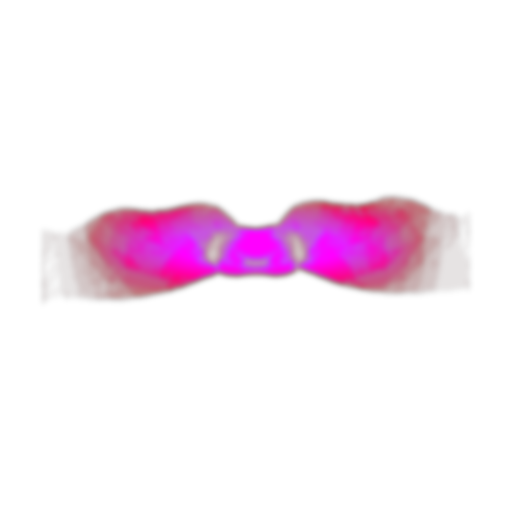
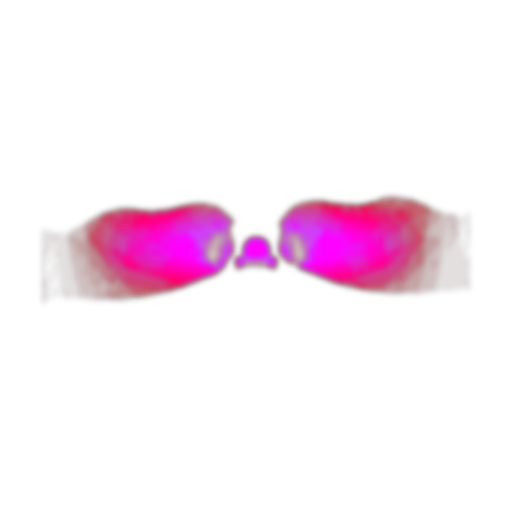
fix: separate sun blush nose mask

Changed region(s): [[0.4062, 0.4375, 0.5938, 0.5625], [0.2188, 0.4062, 0.375, 0.5312], [0.625, 0.4062, 0.7812, 0.5312]]

diff --git a/scripts/e7_reference_atlas/verify_cheek_blush_contract.py b/scripts/e7_reference_atlas/verify_cheek_blush_contract.py
@@ -4,6 +4,7 @@
 from __future__ import annotations
 
 import json
+from collections import deque
 from pathlib import Path
 
 import numpy as np
@@ -13,6 +14,7 @@ from PIL import Image
 ROOT = Path(__file__).resolve().parents[2]
[1 lines of base64/hex data omitted]
 SUMMARY_PATH = ROOT / "evidence/e7-reference-atlas/cheek-blush-mask-textures-v1/summary.json"
+SOURCE_SCREEN_ROOT = ROOT / "evidence/e7-reference-atlas/cheek-blush-mask-textures-v1/screen"
 EXPECTED_SUMMARY_PATH = (
     ROOT
     / "evidence/e7-reference-atlas/cheek-blush-mask-textures-v1/expected_render_20260628_natural_v5/summary.json"
@@ -77,6 +79,87 @@ def verify_masks() -> dict[str, dict[str, float | int]]:
             "reservedGMax": int(g.max()),
         }
     return stats
+
+
+def connected_components(mask: np.ndarray) -> list[dict[str, int | float]]:
+    height, width = mask.shape
+    seen = np.zeros_like(mask, dtype=bool)
+    components: list[dict[str, int | float]] = []
+    for y, x in zip(*np.nonzero(mask)):
+        if seen[y, x]:
+            continue
+
+        queue: deque[tuple[int, int]] = deque([(int(y), int(x))])
+        seen[y, x] = True
+        xs: list[int] = []
+        ys: list[int] = []
+        while queue:
+            cy, cx = queue.popleft()
+            xs.append(cx)
+            ys.append(cy)
+            for dy, dx in ((1, 0), (-1, 0), (0, 1), (0, -1)):
+                ny = cy + dy
+                nx = cx + dx
+                if 0 <= ny < height and 0 <= nx < width and mask[ny, nx] and not seen[ny, nx]:
+                    seen[ny, nx] = True
+                    queue.append((ny, nx))
+
+        components.append(
+            {
+                "pixels": len(xs),
+                "left": min(xs),
+                "top": min(ys),
+                "right": max(xs),
+                "bottom": max(ys),
+                "width": max(xs) - min(xs) + 1,
+                "height": max(ys) - min(ys) + 1,
+                "centerX": float(sum(xs) / len(xs)),
+                "centerY": float(sum(ys) / len(ys)),
+            }
+        )
+    return components
+
+
+def verify_sunkissed1_source_shape() -> dict[str, int | float]:
+    path = SOURCE_SCREEN_ROOT / "cheek-sunkissed-mask1-v1-source-clean.png"
+    require(path.exists(), "Missing Sun 1 clean source mask")
+    source = np.asarray(Image.open(path).convert("L"), dtype=np.uint8) > 127
+    height, width = source.shape
+    components = connected_components(source)
+    require(len(components) == 3, "Sun 1 source must keep left cheek, nose, and right cheek separate")
+
+    nose_candidates = [
+        component
+        for component in components
+        if width * 0.44 <= float(component["centerX"]) <= width * 0.56
+        and int(component["pixels"]) < 20000
+    ]
+    require(len(nose_candidates) == 1, "Sun 1 source must contain one centered nose blush component")
+    nose = nose_candidates[0]
+    cheeks = [component for component in components if component is not nose]
+    cheeks.sort(key=lambda component: float(component["centerX"]))
+    left_cheek, right_cheek = cheeks
+
+    require(float(left_cheek["centerX"]) < width * 0.5, "Sun 1 left cheek must stay on the left")
+    require(float(right_cheek["centerX"]) > width * 0.5, "Sun 1 right cheek must stay on the right")
+    require(int(left_cheek["width"]) > 260, "Sun 1 left cheek must stay horizontally filled")
+    require(int(right_cheek["width"]) > 260, "Sun 1 right cheek must stay horizontally filled")
+    require(int(left_cheek["height"]) > 220, "Sun 1 left cheek must stay rounded/full")
+    require(int(right_cheek["height"]) > 220, "Sun 1 right cheek must stay rounded/full")
+    require(45 <= int(nose["width"]) <= 110, "Sun 1 nose blush must stay visible but compact")
+    require(65 <= int(nose["height"]) <= 140, "Sun 1 nose blush must stay rounded/full")
+    require(int(left_cheek["right"]) + 8 < int(nose["left"]), "Sun 1 must keep left nose-side skin gap")
+    require(int(nose["right"]) + 8 < int(right_cheek["left"]), "Sun 1 must keep right nose-side skin gap")
+
+    return {
+        "componentCount": len(components),
+        "leftCheekWidth": int(left_cheek["width"]),
+        "rightCheekWidth": int(right_cheek["width"]),
+        "noseWidth": int(nose["width"]),
+        "noseHeight": int(nose["height"]),
+        "leftGap": int(nose["left"]) - int(left_cheek["right"]) - 1,
+        "rightGap": int(right_cheek["left"]) - int(nose["right"]) - 1,
+    }
 
 
 def main() -> None:
@@ -152,7 +235,17 @@ def main() -> None:
         ),
     )
 
-    print(json.dumps({"status": "ok", "masks": verify_masks()}, indent=2, ensure_ascii=False))
+    print(
+        json.dumps(
+            {
+                "status": "ok",
+                "masks": verify_masks(),
+                "sun1Source": verify_sunkissed1_source_shape(),
+            },
+            indent=2,
+            ensure_ascii=False,
+        )
+    )
 
 
 if __name__ == "__main__":

diff --git a/scripts/e7_reference_atlas/generate_cheek_blush_mask_textures.py b/scripts/e7_reference_atlas/generate_cheek_blush_mask_textures.py
@@ -165,6 +165,30 @@ def paint_ellipse(
     )
 
 
+def erase_ellipse(
+    target: np.ndarray,
+    *,
+    cx: float,
+    cy: float,
+    radius_x: float,
+    radius_y: float,
+) -> None:
+    height, width = target.shape
+    left = max(int(np.floor(cx - radius_x)), 0)
+    right = min(int(np.ceil(cx + radius_x)), width - 1)
+    top = max(int(np.floor(cy - radius_y)), 0)
+    bottom = min(int(np.ceil(cy + radius_y)), height - 1)
+    if right < left or bottom < top:
+        return
+
+    grid_y, grid_x = np.mgrid[top : bottom + 1, left : right + 1]
+    ellipse = (
+        ((grid_x - cx) / max(radius_x, 1.0)) ** 2
+        + ((grid_y - cy) / max(radius_y, 1.0)) ** 2
+    ) <= 1.0
+    target[top : bottom + 1, left : right + 1][ellipse] = 0
+
+
 def expand_component_ellipse(
     expanded: np.ndarray,
     component: np.ndarray,
@@ -211,6 +235,7 @@ def expand_screen_mask_for_runtime(clean: np.ndarray, mask_id: str) -> np.ndarra
 
     if mask_id == "cheek-sunkissed-mask1-v1":
         rebuilt = np.zeros_like(expanded)
+        nose_cutout: tuple[float, float, float, float] | None = None
         components = iter_components(alpha, min_pixels=24)
         for component in components:
             ys, xs = np.nonzero(component)
@@ -224,13 +249,7 @@ def expand_screen_mask_for_runtime(clean: np.ndarray, mask_id: str) -> np.ndarra
             centered = abs(cx - width * 0.5) < width * 0.12
             small = box_w < width * 0.16 and box_h < height * 0.06
             if centered and small:
-                paint_ellipse(
-                    rebuilt,
-                    cx=cx,
-                    cy=cy + box_h * 0.02,
-                    radius_x=box_w * 1.16,
-                    radius_y=box_h * 1.08,
-                )
+                nose_cutout = (cx, cy + box_h * 0.02, box_w, box_h)
                 continue
 
             direction = -1.0 if cx < width * 0.5 else 1.0
@@ -240,6 +259,24 @@ def expand_screen_mask_for_runtime(clean: np.ndarray, mask_id: str) -> np.ndarra
                 cy=cy + box_h * 0.03,
                 radius_x=max(box_w * 0.98, box_h * 0.62),
                 radius_y=box_h * 0.54,
+            )
+
+        if nose_cutout is not None:
+            cx, cy, box_w, box_h = nose_cutout
+            for direction in (-1.0, 1.0):
+                erase_ellipse(
+                    rebuilt,
+                    cx=cx + direction * box_w * 0.58,
+                    cy=cy,
+                    radius_x=box_w * 0.18,
+                    radius_y=box_h * 1.08,
+                )
+            paint_ellipse(
+                rebuilt,
+                cx=cx,
+                cy=cy,
+                radius_x=box_w * 0.43,
+                radius_y=box_h * 0.74,
             )
 
         return rebuilt

diff --git a/TECH_VALIDATION_RESULT.md b/TECH_VALIDATION_RESULT.md
@@ -112,6 +112,8 @@ Latest E7 cheek blush natural edge/color no-build correction: 2026-06-28 KST
 
 Latest E7 cheek blush natural v5 UnityFramework build/sync: 2026-06-28 KST
 
+Latest E7 cheek blush Sun 1 nose-side gap UnityFramework build/sync: 2026-06-28 KST
+
 ## Current Session Snapshot
 
 This snapshot is the default entry point for future Codex sessions. Read this section first, then lazy-load only the milestone-specific plan or research document needed for the current task.
@@ -264,6 +266,7 @@ Key evidence:
 - 2026-06-28 E7 cheek blush milk-pink/three-stage correction: user-provided expected color was sampled as `#F0CBD5` and added to the RN cheek palette as `milk_pink`. The cheek texture generator now expands all five blush masks for a wider soft outer falloff, treats `blush_under_eye` specially so it starts directly below the lower eye area and fades into the high cheek instead of floating awkwardly lower, and encodes a per-shape three-stage density map (`outer` / `mid` / `core`) for smoother gradients. The cheek shader now resolves those logical layers as `cheekOuterLayer`, `cheekMidLayer`, and `cheekCoreLayer`, keeping neutral skin fade at the outer edge while letting the core carry stronger pigment. No-build checks passed: cheek contract verifier, `git diff --check`, RN Jest (`16`), TypeScript, and RN lint. After build approval, UnityFramework regeneration/sync succeeded with `TIMESTAMP=e7-cheek-blush-three-stage-20260628`; RN real-device install still failed before runtime because Xcode has no provisioning profile/account for `com.yeoseojin.makeupar.validation202268054` / team `9G4K6N63MK`. A compare-only unsigned device-targeted RN/Xcode build succeeded and produced a `199M` app embedding an arm64 `119M` UnityFramework with `24M` Unity `Data`; required Unity metadata and ARKit subsystem files are present. Evidence logs: `evidence/logs/m3-repro-unity-export-e7-cheek-blush-three-stage-20260628.log`, `evidence/logs/m3-repro-xcodebuild-unityframework-e7-cheek-blush-three-stage-20260628.log`, `evidence/logs/m3-repro-artifact-verification-e7-cheek-blush-three-stage-20260628.log`, `evidence/logs/e7-cheek-blush-three-stage-rn-ios-device-20260628.log`, `evidence/logs/e7-cheek-blush-three-stage-rn-ios-device-auto-sign-20260628.log`, `evidence/logs/e7-cheek-blush-three-stage-rn-ios-unsigned-build-20260628.log`, and `evidence/logs/e7-cheek-blush-three-stage-rn-ios-unsigned-artifact-verification-20260628.log`. Cheek remains Yellow until runtime screenshots/logs, motion, performance, and five-shape visual acceptance evidence are collected on the iPhone.
 - 2026-06-28 E7 cheek blush natural edge/color no-build correction: user screenshots showed visible cheek perimeter seams, weak color differentiation, nearly invisible `milk_pink`, and awkward side-face clipping on `blush_sunkissed1` / `blush_sunkissed2`. The follow-up correction keeps the wide user-drawn/source region as a safety outer alpha, but moves visible pigment inward by regenerating the B-channel density with a stricter inner gate, component-edge fade, and UV side fade so face-edge mesh clipping is less likely to leave a colored vertical boundary. `blush_sunkissed1` now rebuilds the screen source from filled round cheek blobs plus nose blush instead of preserving the half-moon source cutout; the latest tweak extends only the cheek blobs' inner horizontal span toward the cheek center while keeping vertical growth restrained. Unity cheek shader blending now treats outer as a near no-color safety wash, mid as the veil, and core as pigment; `cheekLightColorBoost` / `cheekVisiblePrimary` make bright pink colors validation-visible without changing saturated red/rose behavior as much. `E3RegionMaskOverlay` raises cheek material alpha scaling so light colors are not swallowed by multiply blending. The expected-render sheet is regenerated at `evidence/e7-reference-atlas/cheek-blush-mask-textures-v1/expected_render_20260628_natural_v5/cheek_blush_expected_render_sheet.png`, and the cheek contract verifier passes with density now smaller than alpha for all five masks. This is no-build/static correction only; UnityFramework rebuild, RN install, and iPhone runtime visual acceptance have not been rerun.
 - 2026-06-28 E7 cheek blush natural v5 UnityFramework build/sync: after the latest Sun 1 horizontal-fill tweak, buildless checks passed with cheek contract verifier and `git diff --check`, then the approved UnityFramework-only build was run. The first attempt using the script default Unity path failed because `/Applications/Unity/Hub/Editor/6000.3.18f1/Unity.app/Contents/MacOS/Unity` does not exist on this machine; rerunning with `UNITY_BIN="/Users/yeoduchi/Library/Application Support/UnityHub/downloads/6000.3.18f1/Unity.app/Contents/MacOS/Unity"` succeeded with `TIMESTAMP=e7-cheek-blush-natural-v5-20260628` and `BUILD_LOG_MODE=full`. Unity export verified ARKit/Vision/MetalPerformanceShaders links, Xcode recorded `** BUILD SUCCEEDED **`, and both RN and package-local `UnityFramework.framework` paths were synced as arm64 Mach-O frameworks (`119M`, Unity `Data` `24M`). Evidence logs: `evidence/logs/m3-repro-unity-export-e7-cheek-blush-natural-v5-20260628.log`, `evidence/logs/m3-repro-xcodebuild-unityframework-e7-cheek-blush-natural-v5-20260628.log`, and `evidence/logs/m3-repro-artifact-verification-e7-cheek-blush-natural-v5-20260628.log`. RN real-device install/run, runtime screenshots, FPS/frame-time/latency/thermal/memory, motion, and face-proportion acceptance were not collected in this UnityFramework-only build, so cheek remains Yellow.
+- 2026-06-28 E7 cheek blush Sun 1 nose-side gap UnityFramework build/sync: completion audit found the prior `blush_sunkissed1` source mask still had cheeks and nose touching as one component, which was weaker than the requested nose-side exclusion. The Sun 1 generator now paints the cheeks first, cuts narrow transparent gaps beside the nose, then repaints a compact rounded nose ellipse. The updated verifier now guards the Sun 1 source shape: exactly three components, left/right cheek widths `292/310`, nose `77x106`, and nose-side gaps `16/21px`, while the Unity RGBA contract still passes (`cheek-sunkissed-mask1-v1` alpha `35334`, density `23599`, G max `0`). Expected render assets were regenerated under `evidence/e7-reference-atlas/cheek-blush-mask-textures-v1/expected_render_20260628_natural_v5/`. A fresh approved UnityFramework-only build then succeeded with `TIMESTAMP=e7-cheek-blush-sun1-gap-20260628`; Unity export verified ARKit/Vision/MetalPerformanceShaders links, Xcode recorded `** BUILD SUCCEEDED **`, and both RN/package-local `UnityFramework.framework` paths were synced as arm64 Mach-O frameworks (`119M`, Unity `Data` `24M`). Evidence logs: `evidence/logs/m3-repro-unity-export-e7-cheek-blush-sun1-gap-20260628.log`, `evidence/logs/m3-repro-xcodebuild-unityframework-e7-cheek-blush-sun1-gap-20260628.log`, and `evidence/logs/m3-repro-artifact-verification-e7-cheek-blush-sun1-gap-20260628.log`. RN real-device install/run and runtime visual/performance acceptance were not collected in this UnityFramework-only build, so cheek remains Yellow.
 - E7 Vision ARFace UV-bake no-build evidence: the latest Vision debug/compare path change bakes the stabilized Vision lip boundary into a transient ARFace UV mask instead of shader-sampling a live screen-space mask. Source evidence: `E3RegionMaskOverlay.cs` now creates `VisionUvMaskTexture`, back-projects screen samples through ARFace triangle barycentric coordinates, writes a soft-falloff UV splat (`VisionUvMaskSoftSplatRadius=3`) instead of a hard `3x3` stamp, applies the dynamic texture with `_UseScreenSpaceMask=0`, and reports `apple_vision_lip_landmark_arface_uv_baked` / `vision_arface_uv_baked_outer_minus_inner_soft_falloff` diagnostics. Verification passed with scoped `git diff --check`, Unity DLL-referenced Roslyn compile for all runtime scripts, Unity batchmode import/compile, RN Jest (`11` tests), TypeScript, and RN lint. The Unity log `evidence/logs/e7-vision-arface-uv-bake-diag-unity-batchmode-20260626.log` records `CompileScripts: 2965.738ms`, no `Shader error` / `error CS`, and `Exiting batchmode successfully now!`. No UnityFramework build, RN install, or iPhone runtime visual acceptance was collected for this checkpoint.
 - E7 soft-SDF multilayer offline preview evidence: `scripts/e7_reference_atlas/make_lip_soft_sdf_multilayer_preview.py` passed Python compile and generated `evidence/e7-reference-atlas/lip-style-atlas-v1/soft_sdf_multilayer_preview_20260626/soft_sdf_multilayer_sheet.png`, `soft_sdf_layer_diagnostic.png`, and `summary.json`. The preview uses the same reference frame and lip atlas round-trip mask to approximate the shader intent for no-build review: hard alpha vs soft matte vs soft gradient vs a single thin soft-white wet-line. It is preview-only evidence, not runtime acceptance.
 - E7 soft-SDF completion audit evidence: `evidence/logs/e7-soft-sdf-completion-audit-20260626.md` records requirement-by-requirement status for Vision smoothing/transition, large-motion compensation, ARFace UV stabilization, shader logical layers, RN diagnostics, and missing runtime visual acceptance.
@@ -504,7 +507,7 @@ Result growth policy:
 
 ## Next Milestone Boundary
 
-E1 AR Alignment, E2 Trackable Lifecycle Diagnostics, E3 Region Mask, E4 Texture Sample, E5 AI Feature Readiness Snapshot, E6 Engine Decision, E7.0/E7.1 preflight, E7.2 Baseline Instrumentation, and the accepted E7 lip implementation slice are complete/frozen for their recorded evidence scope. The current default next work is E7 cheek/blush validation only. The 2026-06-28 cheek blush `milk_pink` / expanded three-stage gradient correction has follow-up natural v5 tuning for perimeter seams, light-color visibility, side-face clipping, and `blush_sunkissed1` horizontal fill; this latest source change has been rebuilt/synced into UnityFramework/RN package framework paths, but not installed/launched on the iPhone. Cheek remains Yellow until a fresh RN build/install/run collects runtime evidence. M0-M6 remain Green. M7 remains Yellow / skipped by decision / risk accepted.
+E1 AR Alignment, E2 Trackable Lifecycle Diagnostics, E3 Region Mask, E4 Texture Sample, E5 AI Feature Readiness Snapshot, E6 Engine Decision, E7.0/E7.1 preflight, E7.2 Baseline Instrumentation, and the accepted E7 lip implementation slice are complete/frozen for their recorded evidence scope. The current default next work is E7 cheek/blush validation only. The 2026-06-28 cheek blush `milk_pink` / expanded three-stage gradient correction has follow-up natural v5 tuning for perimeter seams, light-color visibility, side-face clipping, `blush_sunkissed1` horizontal fill, and Sun 1 nose-side transparent gaps; this latest source change has been rebuilt/synced into UnityFramework/RN package framework paths, but not installed/launched on the iPhone. Cheek remains Yellow until a fresh RN build/install/run collects runtime evidence. M0-M6 remain Green. M7 remains Yellow / skipped by decision / risk accepted.
 
 Next boundary decision:
 
